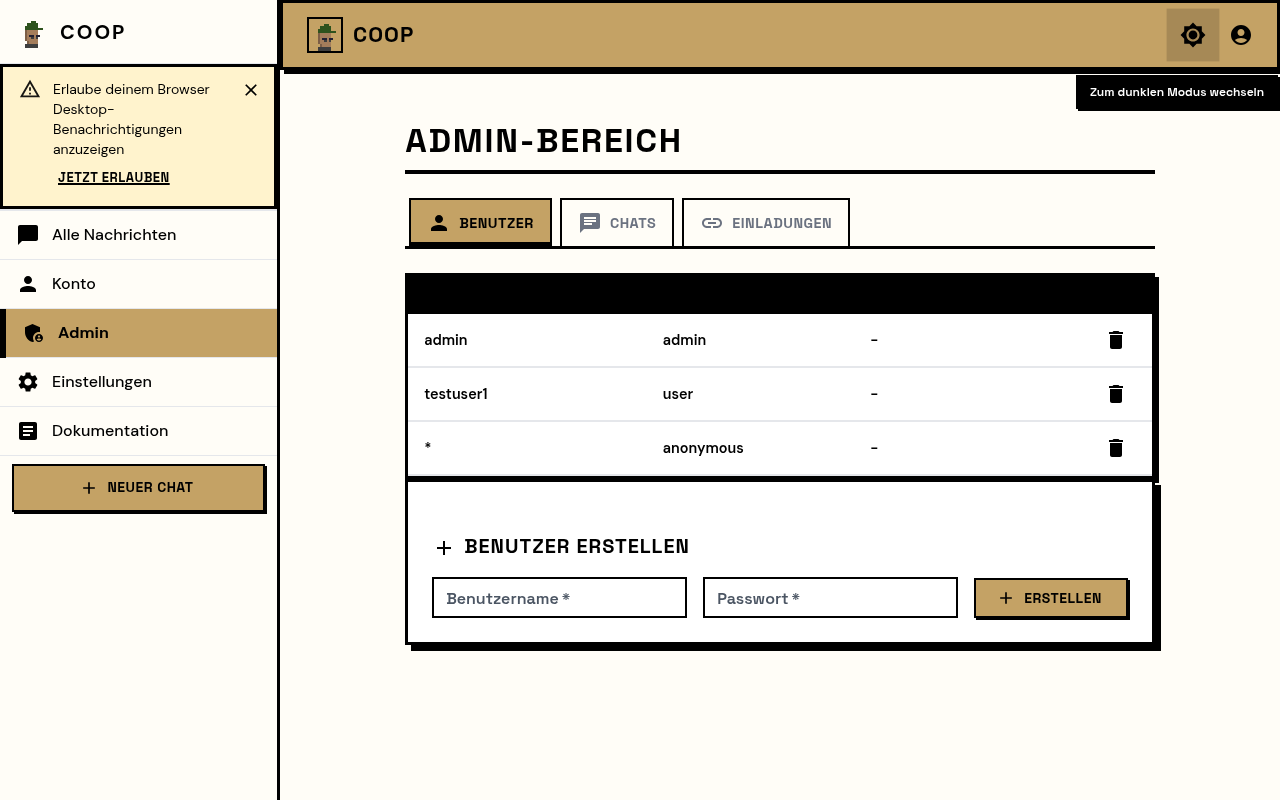
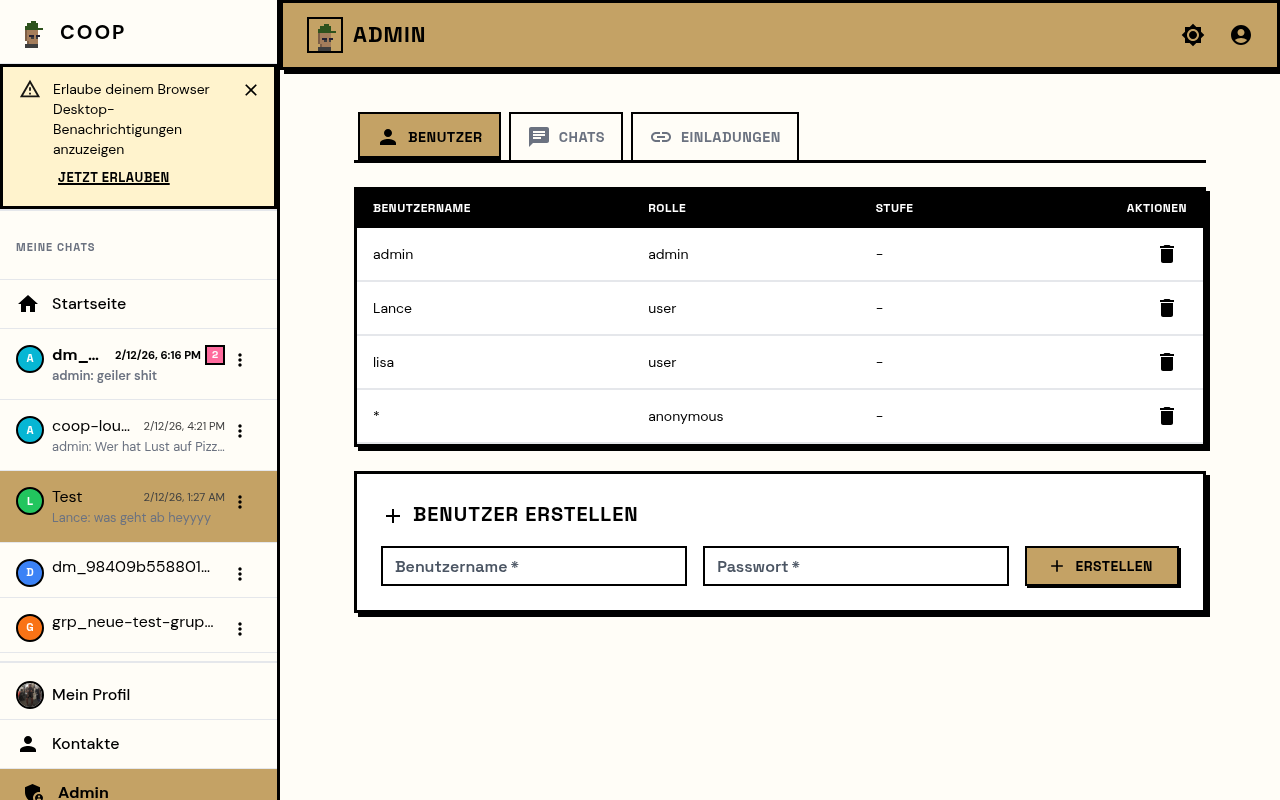
docs: update screenshots and fix README claims
- Fresh screenshots from test account (light/dark/mobile/admin/invites)
- Fix PWA claim: "Mobile-friendly" instead of "Mobile-first PWA"
- Fix i18n count: 590+ instead of 550+
- Add mobile chat screenshot (coop-mobile-chat.png)

diff --git a/README.md b/README.md
@@ -33,7 +33,7 @@ Coop is a private messenger you host yourself. Built as a fork of the excellent 
   <img src=".github/images/coop-desktop-dark.png" width="45%" alt="Coop Desktop Dark Mode">
 </p>
 <p align="center">
-  <img src=".github/images/coop-mobile-closed.png" width="20%" alt="Coop Mobile">
+  <img src=".github/images/coop-mobile-chat.png" width="20%" alt="Coop Mobile">
   <img src=".github/images/coop-admin-light.png" width="35%" alt="Coop Admin Panel">
   <img src=".github/images/admin-invites-desktop.png" width="35%" alt="Coop Invites">
 </p>
@@ -73,8 +73,8 @@ Coop is a private messenger you host yourself. Built as a fork of the excellent 
 - **Neobrutalism design** -- Bold 3px borders, no border-radius, accent colors, strong shadows
 - **Theme toggle** -- Light / Dark / System (3-stage toggle)
 - **Accent colors** -- 4 presets (Sand, Khaki, Olive, Gold) + custom color picker
-- **Mobile-first PWA** -- Responsive layout with swipe drawer, installable on any device
-- **German UI** -- Complete German localization (550+ i18n keys)
+- **Mobile-friendly** -- Responsive layout with swipe drawer, works on any device
+- **German UI** -- Complete German localization (590+ i18n keys)
 - **Smart auto-scroll** -- Only scrolls on new messages when at bottom; "New messages" button otherwise
 - **Unread badges** -- Pink counter badges per chat in the sidebar
 - **Date separators** -- "Today", "Yesterday", DD.MM.YYYY between messages
@@ -167,7 +167,7 @@ For all configuration options, see the [ntfy documentation](https://docs.ntfy.sh
 
 ### Mobile
 
-Coop is a PWA (Progressive Web App) and can be installed directly from the browser on any device -- no app store needed. Native Android and iOS apps are on the [roadmap](docs/ROADMAP.md).
+Coop works in any mobile browser with a responsive layout and swipe drawer. A proper PWA manifest for "Add to Home Screen" and native Android/iOS apps are on the [roadmap](docs/ROADMAP.md).
 
 ## Tech Stack
 
